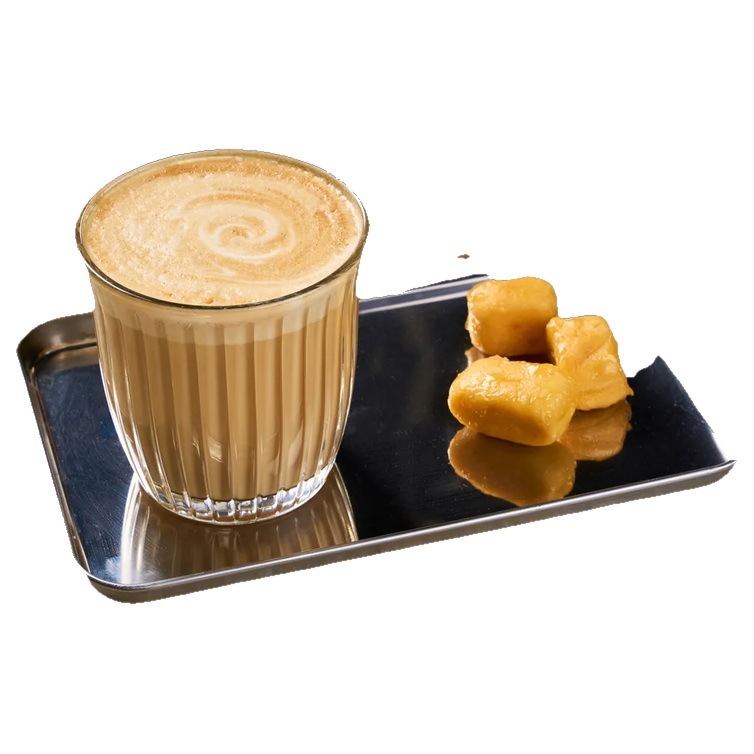
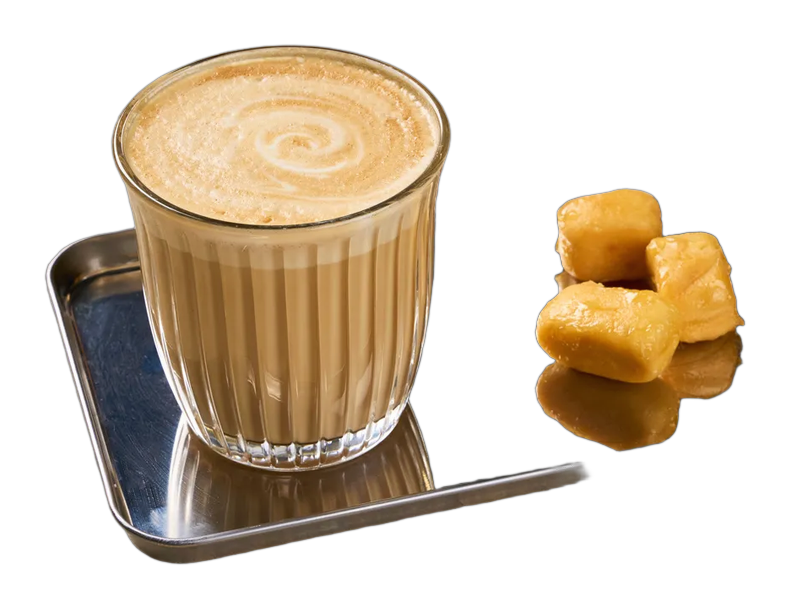
Replace stock drink photos with Yandex studio pairs.
Wire remaining catalog drinks to local 0126–0173 WebPs, sync hall menu
and menu.json, refresh glass cutouts, and drop tray-hero cutouts.

diff --git a/drinkit-delivery/src/data/hall-menu.ts b/drinkit-delivery/src/data/hall-menu.ts
@@ -178,10 +178,10 @@ export const HALL_SECTIONS: HallSection[] = [
     title: "Фирменный кофе",
     kind: "drinks",
     items: [
-      { name: "Испанский латте", price: "320 / 370 / 420 ₽", note: "250 / 350 / 450 мл", photo: "/hall-menu/drinks/stock/spanish-latte.webp" },
+      { name: "Испанский латте", price: "320 / 370 / 420 ₽", note: "250 / 350 / 450 мл", photo: "/hall-menu/drinks/0132.webp", photoAlt: "/hall-menu/drinks/0133.webp" },
       { name: "Фисташковый латте", price: "350 / 400 / 450 ₽", note: "250 / 350 / 450 мл", photo: "/hall-menu/drinks/0142.webp", photoAlt: "/hall-menu/drinks/0143.webp" },
-      { name: "Латте солёная карамель", price: "320 / 370 / 420 ₽", note: "250 / 350 / 450 мл", photo: "/hall-menu/drinks/stock/salted-caramel-latte.webp" },
-      { name: "Раф ваниль", price: "320 / 370 / 420 ₽", note: "250 / 350 / 450 мл", photo: "/hall-menu/drinks/stock/raf-vanilla.webp" },
+      { name: "Латте солёная карамель", price: "320 / 370 / 420 ₽", note: "250 / 350 / 450 мл", photo: "/hall-menu/drinks/0132.webp", photoAlt: "/hall-menu/drinks/0133.webp" },
+      { name: "Раф ваниль", price: "320 / 370 / 420 ₽", note: "250 / 350 / 450 мл", photo: "/hall-menu/drinks/0128.webp", photoAlt: "/hall-menu/drinks/0129.webp" },
       { name: "Раф чак-чак", price: "350 / 400 / 450 ₽", note: "250 / 350 / 450 мл", photo: "/hall-menu/drinks/0130.webp", photoAlt: "/hall-menu/drinks/0131.webp" },
       { name: "Матча латте", price: "420 / 480 / 540 ₽", note: "250 / 350 / 450 мл", photo: "/hall-menu/drinks/0144.webp", photoAlt: "/hall-menu/drinks/0145.webp" },
       { name: "Клубничная матча", price: "470 / 530 / 590 ₽", note: "250 / 350 / 450 мл", photo: "/hall-menu/drinks/stock/strawberry-matcha.webp" },
@@ -192,13 +192,13 @@ export const HALL_SECTIONS: HallSection[] = [
     title: "Колд брю и айс-кофе",
     kind: "drinks",
     items: [
-      { name: "Колд брю классический", price: "320 / 370 / 430 ₽", note: "250 / 350 / 450 мл", photo: "/hall-menu/drinks/stock/cold-brew-classic.webp" },
-      { name: "Колд брю апельсин", price: "390 / 440 / 490 ₽", note: "250 / 350 / 450 мл", photo: "/hall-menu/drinks/stock/cold-brew-orange.webp" },
-      { name: "Колд брю манго", price: "410 / 460 / 520 ₽", note: "250 / 350 / 450 мл", photo: "/hall-menu/drinks/stock/cold-brew-mango.webp" },
-      { name: "Колд брю тоник", price: "390 / 440 / 490 ₽", note: "250 / 350 / 450 мл", photo: "/hall-menu/drinks/stock/cold-brew-tonic.webp" },
+      { name: "Колд брю классический", price: "320 / 370 / 430 ₽", note: "250 / 350 / 450 мл", photo: "/hall-menu/drinks/0148.webp", photoAlt: "/hall-menu/drinks/0149.webp" },
+      { name: "Колд брю апельсин", price: "390 / 440 / 490 ₽", note: "250 / 350 / 450 мл", photo: "/hall-menu/drinks/0148.webp", photoAlt: "/hall-menu/drinks/0149.webp" },
+      { name: "Колд брю манго", price: "410 / 460 / 520 ₽", note: "250 / 350 / 450 мл", photo: "/hall-menu/drinks/0170.webp", photoAlt: "/hall-menu/drinks/0171.webp" },
+      { name: "Колд брю тоник", price: "390 / 440 / 490 ₽", note: "250 / 350 / 450 мл", photo: "/hall-menu/drinks/0146.webp", photoAlt: "/hall-menu/drinks/0147.webp" },
       { name: "Айс латте", price: "260 / 300 / 340 ₽", note: "250 / 350 / 450 мл", photo: "/hall-menu/drinks/0127.webp", photoAlt: "/hall-menu/drinks/0126.webp" },
       { name: "Айс испанский латте", price: "320 / 370 / 420 ₽", note: "250 / 350 / 450 мл", photo: "/hall-menu/drinks/0134.webp", photoAlt: "/hall-menu/drinks/0135.webp" },
-      { name: "Айс фисташковый латте", price: "350 / 400 / 450 ₽", note: "250 / 350 / 450 мл", photo: "/hall-menu/drinks/stock/iced-pistachio-latte.webp" },
+      { name: "Айс фисташковый латте", price: "350 / 400 / 450 ₽", note: "250 / 350 / 450 мл", photo: "/hall-menu/drinks/0134.webp", photoAlt: "/hall-menu/drinks/0135.webp" },
       { name: "Эспрессо тоник", price: "260 / 300 / 340 ₽", note: "250 / 350 / 450 мл", photo: "/hall-menu/drinks/0146.webp", photoAlt: "/hall-menu/drinks/0147.webp" },
     ],
   },
@@ -211,7 +211,7 @@ export const HALL_SECTIONS: HallSection[] = [
       { name: "Персик · Жасмин", price: "440 ₽", note: "450 мл", photo: "/hall-menu/drinks/0166.webp", photoAlt: "/hall-menu/drinks/0167.webp" },
       { name: "Огурец · Лайм", price: "390 ₽", note: "450 мл", photo: "/hall-menu/drinks/0172.webp", photoAlt: "/hall-menu/drinks/0173.webp" },
       { name: "Зелёная энергия", price: "490 ₽", note: "смузи · 450 мл", photo: "/hall-menu/drinks/0150.webp", photoAlt: "/hall-menu/drinks/0151.webp" },
-      { name: "Тропическое солнце", price: "520 ₽", note: "смузи · 450 мл", photo: "/hall-menu/drinks/stock/smoothie-tropical.webp" },
+      { name: "Тропическое солнце", price: "520 ₽", note: "смузи · 450 мл", photo: "/hall-menu/drinks/0160.webp", photoAlt: "/hall-menu/drinks/0161.webp" },
       { name: "Ягодный заряд", price: "510 ₽", note: "смузи · 450 мл", photo: "/hall-menu/drinks/0152.webp", photoAlt: "/hall-menu/drinks/0153.webp" },
     ],
   },
@@ -235,11 +235,11 @@ export const HALL_SECTIONS: HallSection[] = [
     title: "Авторские чаи",
     kind: "drinks",
     items: [
-      { name: "Персик · Жасмин", price: "390 / 620 ₽", note: "450 / 800 мл", photo: "/hall-menu/drinks/stock/tea-peach-jasmine.webp" },
+      { name: "Персик · Жасмин", price: "390 / 620 ₽", note: "450 / 800 мл", photo: "/hall-menu/drinks/0166.webp", photoAlt: "/hall-menu/drinks/0167.webp" },
       { name: "Облепиха · Апельсин", price: "420 / 650 ₽", note: "450 / 800 мл", photo: "/hall-menu/drinks/0156.webp", photoAlt: "/hall-menu/drinks/0157.webp" },
       { name: "Малина · Мята", price: "390 / 620 ₽", note: "450 / 800 мл", photo: "/hall-menu/drinks/0154.webp", photoAlt: "/hall-menu/drinks/0155.webp" },
       { name: "Имбирь · Лайм · Мёд", price: "390 / 620 ₽", note: "450 / 800 мл", photo: "/hall-menu/drinks/0158.webp", photoAlt: "/hall-menu/drinks/0159.webp" },
-      { name: "Яблоко · Корица · Ваниль", price: "390 / 620 ₽", note: "450 / 800 мл", photo: "/hall-menu/drinks/stock/tea-apple-cinnamon.webp" },
+      { name: "Яблоко · Корица · Ваниль", price: "390 / 620 ₽", note: "450 / 800 мл", photo: "/hall-menu/drinks/0156.webp", photoAlt: "/hall-menu/drinks/0157.webp" },
     ],
   },
   {
@@ -251,11 +251,11 @@ export const HALL_SECTIONS: HallSection[] = [
       { name: "Грейпфрутовый фреш", price: "520 ₽", note: "250 мл", photo: "/hall-menu/drinks/stock/fresh-grapefruit.webp" },
       { name: "Апельсин · Морковь", price: "450 ₽", note: "250 мл", photo: "/hall-menu/drinks/stock/fresh-orange-carrot.webp" },
       { name: "Классическое какао", price: "360 ₽", note: "450 мл", photo: "/hall-menu/drinks/0136.webp", photoAlt: "/hall-menu/drinks/0137.webp" },
-      { name: "Какао солёная карамель", price: "390 ₽", note: "450 мл", photo: "/hall-menu/drinks/stock/cocoa-salted-caramel.webp" },
-      { name: "Горячий шоколад", price: "430 ₽", note: "450 мл", photo: "/hall-menu/drinks/stock/hot-chocolate.webp" },
-      { name: "Фисташковый милкшейк", price: "520 ₽", note: "450 мл", photo: "/hall-menu/drinks/stock/milkshake-pistachio.webp" },
+      { name: "Какао солёная карамель", price: "390 ₽", note: "450 мл", photo: "/hall-menu/drinks/0136.webp", photoAlt: "/hall-menu/drinks/0137.webp" },
+      { name: "Горячий шоколад", price: "430 ₽", note: "450 мл", photo: "/hall-menu/drinks/0136.webp", photoAlt: "/hall-menu/drinks/0137.webp" },
+      { name: "Фисташковый милкшейк", price: "520 ₽", note: "450 мл", photo: "/hall-menu/drinks/0138.webp", photoAlt: "/hall-menu/drinks/0139.webp" },
       { name: "Шоколадный милкшейк", price: "490 ₽", note: "450 мл", photo: "/hall-menu/drinks/0140.webp", photoAlt: "/hall-menu/drinks/0141.webp" },
-      { name: "Морс", price: "220 ₽", photo: "/hall-menu/drinks/stock/mors.webp" },
+      { name: "Морс", price: "220 ₽", photo: "/hall-menu/drinks/0164.webp", photoAlt: "/hall-menu/drinks/0165.webp" },
       { name: "Вода с газом / без газа", price: "220 ₽", photo: "/hall-menu/drinks/stock/water.webp" },
       { name: "Cola Zero", price: "220 ₽", photo: "/hall-menu/drinks/stock/cola-zero.webp" },
       { name: "Тоник", price: "220 ₽", photo: "/hall-menu/drinks/stock/tonic-drink.webp" },

diff --git a/drinkit-delivery/src/lib/drink-photos.ts b/drinkit-delivery/src/lib/drink-photos.ts
@@ -23,6 +23,13 @@ export const DRINK_PHOTO_PAIRS: DrinkPhotoPair[] = [
     diskFiles: ["0126.jpg", "0127.jpg"],
   },
   {
+    productId: "raf-vanilla",
+    hallName: "Раф ваниль",
+    primary: drinks("0128"),
+    alt: drinks("0129"),
+    diskFiles: ["0128.jpg", "0129.jpg"],
+  },
+  {
     productId: "raf-chak-chak",
     hallName: "Раф чак-чак",
     primary: drinks("0130"),
@@ -30,8 +37,29 @@ export const DRINK_PHOTO_PAIRS: DrinkPhotoPair[] = [
     diskFiles: ["0130.jpg", "0131.jpg"],
   },
   {
+    productId: "spanish-latte",
+    hallName: "Испанский латте",
+    primary: drinks("0132"),
+    alt: drinks("0133"),
+    diskFiles: ["0132.jpg", "0133.jpg"],
+  },
+  {
+    productId: "salted-caramel-latte",
+    hallName: "Латте солёная карамель",
+    primary: drinks("0132"),
+    alt: drinks("0133"),
+    diskFiles: ["0132.jpg", "0133.jpg"],
+  },
+  {
     productId: "iced-spanish-latte",
     hallName: "Айс испанский латте",
+    primary: drinks("0134"),
+    alt: drinks("0135"),
+    diskFiles: ["0134.jpg", "0135.jpg"],
+  },
+  {
+    productId: "iced-pistachio-latte",
+    hallName: "Айс фисташковый латте",
     primary: drinks("0134"),
     alt: drinks("0135"),
     diskFiles: ["0134.jpg", "0135.jpg"],
@@ -42,6 +70,27 @@ export const DRINK_PHOTO_PAIRS: DrinkPhotoPair[] = [
     primary: drinks("0136"),
     alt: drinks("0137"),
     diskFiles: ["0136.jpg", "0137.jpg"],
+  },
+  {
+    productId: "hot-chocolate",
+    hallName: "Горячий шоколад",
+    primary: drinks("0136"),
+    alt: drinks("0137"),
+    diskFiles: ["0136.jpg", "0137.jpg"],
+  },
+  {
+    productId: "cocoa-salted-caramel",
+    hallName: "Какао солёная карамель",
+    primary: drinks("0136"),
+    alt: drinks("0137"),
+    diskFiles: ["0136.jpg", "0137.jpg"],
+  },
+  {
+    productId: "milkshake-pistachio",
+    hallName: "Фисташковый милкшейк",
+    primary: drinks("0138"),
+    alt: drinks("0139"),
+    diskFiles: ["0138.jpg", "0139.jpg"],
   },
   {
     productId: "milkshake-chocolate",
@@ -72,6 +121,34 @@ export const DRINK_PHOTO_PAIRS: DrinkPhotoPair[] = [
     diskFiles: ["0146.jpg", "0147.jpg"],
   },
   {
+    productId: "cold-brew-tonic",
+    hallName: "Колд брю тоник",
+    primary: drinks("0146"),
+    alt: drinks("0147"),
+    diskFiles: ["0146.jpg", "0147.jpg"],
+  },
+  {
+    productId: "cold-brew-orange",
+    hallName: "Колд брю апельсин",
+    primary: drinks("0148"),
+    alt: drinks("0149"),
+    diskFiles: ["0148.jpg", "0149.jpg"],
+  },
+  {
+    productId: "cold-brew-classic",
+    hallName: "Колд брю классический",
+    primary: drinks("0148"),
+    alt: drinks("0149"),
+    diskFiles: ["0148.jpg", "0149.jpg"],
+  },
+  {
+    productId: "smoothie-green",
+    hallName: "Зелёная энергия",
+    primary: drinks("0150"),
+    alt: drinks("0151"),
+    diskFiles: ["0150.jpg", "0151.jpg"],
+  },
+  {
     productId: "smoothie-berry",
     hallName: "Ягодный заряд",
     primary: drinks("0152"),
@@ -93,6 +170,13 @@ export const DRINK_PHOTO_PAIRS: DrinkPhotoPair[] = [
     diskFiles: ["0156.jpg", "0157.jpg"],
   },
   {
+    productId: "tea-apple-cinnamon",
+    hallName: "Яблоко · Корица · Ваниль",
+    primary: drinks("0156"),
+    alt: drinks("0157"),
+    diskFiles: ["0156.jpg", "0157.jpg"],
+  },
+  {
     productId: "tea-ginger-lime",
     hallName: "Имбирь · Лайм · Мёд",
     primary: drinks("0158"),
@@ -100,7 +184,28 @@ export const DRINK_PHOTO_PAIRS: DrinkPhotoPair[] = [
     diskFiles: ["0158.jpg", "0159.jpg"],
   },
   {
+    productId: "smoothie-tropical",
+    hallName: "Тропическое солнце",
+    primary: drinks("0160"),
+    alt: drinks("0161"),
+    diskFiles: ["0160.jpg", "0161.jpg"],
+  },
+  {
+    productId: "mors",
+    hallName: "Морс",
+    primary: drinks("0164"),
+    alt: drinks("0165"),
+    diskFiles: ["0164.jpg", "0165.jpg"],
+  },
+  {
     productId: "peach-jasmine-drink",
+    hallName: "Персик · Жасмин",
+    primary: drinks("0166"),
+    alt: drinks("0167"),
+    diskFiles: ["0166.jpg", "0167.jpg"],
+  },
+  {
+    productId: "tea-peach-jasmine",
     hallName: "Персик · Жасмин",
     primary: drinks("0166"),
     alt: drinks("0167"),
@@ -114,18 +219,18 @@ export const DRINK_PHOTO_PAIRS: DrinkPhotoPair[] = [
     diskFiles: ["0168.jpg", "0169.jpg"],
   },
   {
+    productId: "cold-brew-mango",
+    hallName: "Колд брю манго",
+    primary: drinks("0170"),
+    alt: drinks("0171"),
+    diskFiles: ["0170.jpg", "0171.jpg"],
+  },
+  {
     productId: "cucumber-lime",
     hallName: "Огурец · Лайм",
     primary: drinks("0172"),
     alt: drinks("0173"),
     diskFiles: ["0172.jpg", "0173.jpg"],
-  },
-  {
-    productId: "smoothie-green",
-    hallName: "Зелёная энергия",
-    primary: drinks("0150"),
-    alt: drinks("0151"),
-    diskFiles: ["0150.jpg", "0151.jpg"],
   },
 ];
 
@@ -139,16 +244,7 @@ export const STOCK_DRINK_PHOTOS: { productId: string; hallName?: string; path: s
   { productId: "cappuccino", hallName: "Капучино", path: stock("cappuccino") },
   { productId: "latte", hallName: "Латте", path: stock("latte") },
   { productId: "flat-white", hallName: "Флэт уайт", path: stock("flat-white") },
-  { productId: "spanish-latte", hallName: "Испанский латте", path: stock("spanish-latte") },
-  { productId: "salted-caramel-latte", hallName: "Латте солёная карамель", path: stock("salted-caramel-latte") },
-  { productId: "raf-vanilla", hallName: "Раф ваниль", path: stock("raf-vanilla") },
   { productId: "strawberry-matcha", hallName: "Клубничная матча", path: stock("strawberry-matcha") },
-  { productId: "cold-brew-classic", hallName: "Колд брю классический", path: stock("cold-brew-classic") },
-  { productId: "cold-brew-orange", hallName: "Колд брю апельсин", path: stock("cold-brew-orange") },
-  { productId: "cold-brew-mango", hallName: "Колд брю манго", path: stock("cold-brew-mango") },
-  { productId: "cold-brew-tonic", hallName: "Колд брю тоник", path: stock("cold-brew-tonic") },
-  { productId: "iced-pistachio-latte", hallName: "Айс фисташковый латте", path: stock("iced-pistachio-latte") },
-  { productId: "smoothie-tropical", hallName: "Тропическое солнце", path: stock("smoothie-tropical") },
   { productId: "tea-assam", hallName: "Ассам", path: stock("tea-assam") },
   { productId: "tea-sencha", hallName: "Сенча", path: stock("tea-sencha") },
   { productId: "tea-milk", hallName: "Молочный", path: stock("tea-milk") },
@@ -157,15 +253,9 @@ export const STOCK_DRINK_PHOTOS: { productId: string; hallName?: string; path: s
   { productId: "tea-tatar", hallName: "Татарский", path: stock("tea-tatar") },
   { productId: "tea-rooibos", hallName: "Ройбуш", path: stock("tea-rooibos") },
   { productId: "tea-altai", hallName: "Алтайский", path: stock("tea-altai") },
-  { productId: "tea-peach-jasmine", hallName: "Персик · Жасмин", path: stock("tea-peach-jasmine") },
-  { productId: "tea-apple-cinnamon", hallName: "Яблоко · Корица · Ваниль", path: stock("tea-apple-cinnamon") },
   { productId: "fresh-orange", hallName: "Апельсиновый фреш", path: stock("fresh-orange") },
   { productId: "fresh-grapefruit", hallName: "Грейпфрутовый фреш", path: stock("fresh-grapefruit") },
   { productId: "fresh-orange-carrot", hallName: "Апельсин · Морковь", path: stock("fresh-orange-carrot") },
-  { productId: "cocoa-salted-caramel", hallName: "Какао солёная карамель", path: stock("cocoa-salted-caramel") },
-  { productId: "hot-chocolate", hallName: "Горячий шоколад", path: stock("hot-chocolate") },
-  { productId: "milkshake-pistachio", hallName: "Фисташковый милкшейк", path: stock("milkshake-pistachio") },
-  { productId: "mors", hallName: "Морс", path: stock("mors") },
   { productId: "water", hallName: "Вода с газом / без газа", path: stock("water") },
   { productId: "cola-zero", hallName: "Cola Zero", path: stock("cola-zero") },
   { productId: "tonic-drink", hallName: "Тоник", path: stock("tonic-drink") },

diff --git a/drinkit-delivery/src/lib/drink-photos.test.ts b/drinkit-delivery/src/lib/drink-photos.test.ts
@@ -30,6 +30,12 @@ describe("drink photo assignments", () => {
     expect(getProductImage("iced-latte", "https://images.pexels.com/x.jpg")).toBe(
       "/hall-menu/drinks/0127.webp",
     );
+    expect(getProductImage("raf-vanilla", "https://images.pexels.com/x.jpg")).toBe(
+      "/hall-menu/drinks/0128.webp",
+    );
+    expect(getProductImage("smoothie-tropical", "https://images.pexels.com/x.jpg")).toBe(
+      "/hall-menu/drinks/0160.webp",
+    );
     expect(getProductImage("americano", "https://images.pexels.com/x.jpg")).toBe(
       "/hall-menu/drinks/stock/americano.webp",
     );

diff --git a/drinkit-delivery/src/lib/cutouts.ts b/drinkit-delivery/src/lib/cutouts.ts
@@ -5,12 +5,13 @@ const CUTOUT_IDS = new Set([
   "americano",
   "beef-stroganoff",
   "burger-beef",
+  "cappuccino",
   "english-breakfast",
+  "espresso-tonic",
   "honey-cake",
   "iced-latte",
   "matcha-latte",
   "pistachio-latte",
-  "raf-chak-chak",
   "roll-hot-caesar",
   "salad-caesar-chicken",
   "salmon-grill",
